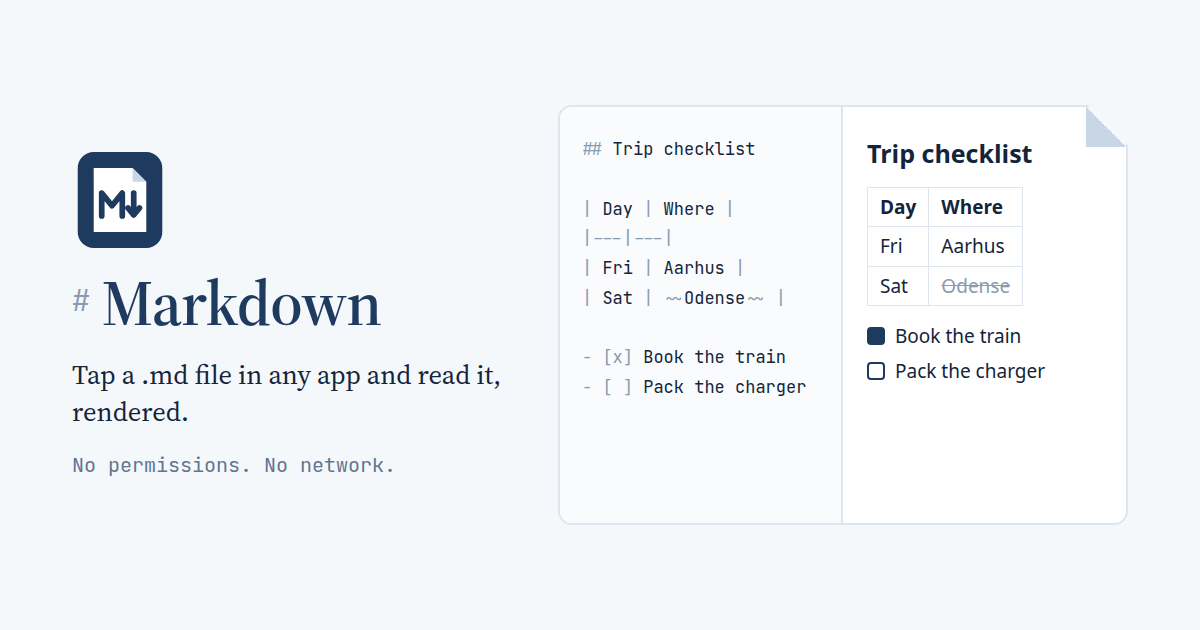
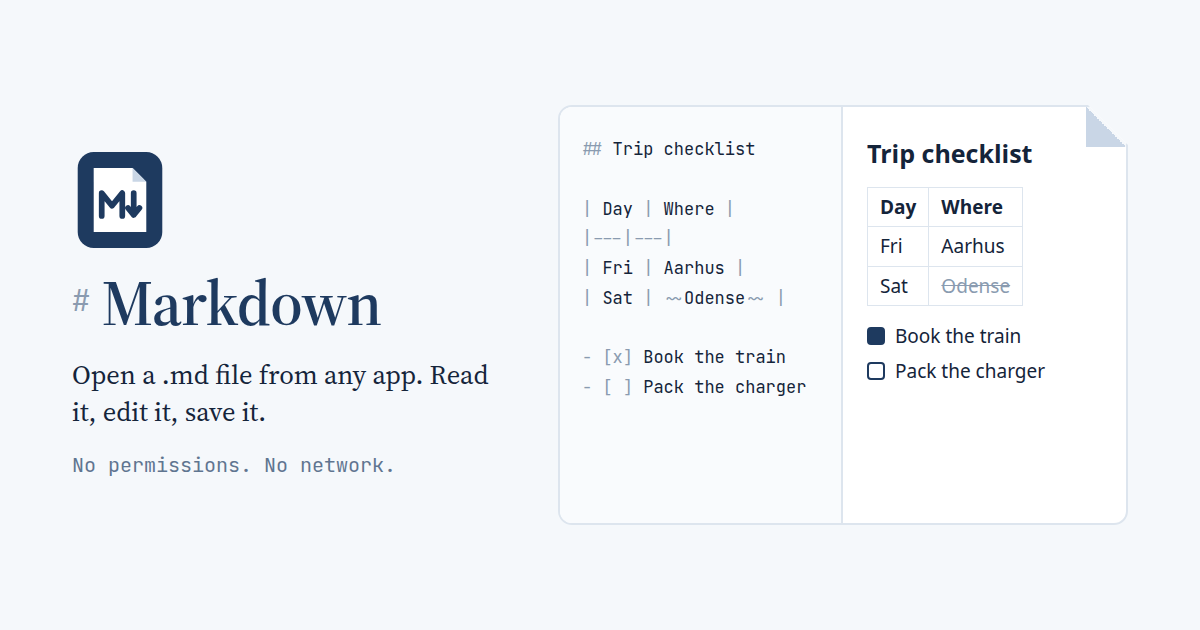
fix(website): follow the brand frame in dark mode, and describe editing (#14)
The frame now takes dark="auto", so it reads light on the dark page
instead of vanishing. Its accent follows the page's own palette
(frame-accent.js), and --cocode-max and --cocode-gutter line it up with
the page column. The lede and og.png now mention editing. The Persian
source panel drops ligatures and per-line direction, so the table rule
draws as |---|---| and lines up with the rest.

Claude-Session: https://claude.ai/code/session_019fSTsNv6mvnZFf1o5pYahC

Changed region(s): [[0.0617, 0.573, 0.4317, 0.6937]]

diff --git a/website/index.html b/website/index.html
@@ -24,7 +24,7 @@
 <meta property="og:locale:alternate" content="fa_IR">
 <meta name="twitter:card" content="summary_large_image">
 <meta name="twitter:title" content="Markdown — read and edit .md files on Android">
-<meta name="twitter:description" content="Tap a .md file in any app and read it, rendered. No permissions, no network.">
+<meta name="twitter:description" content="Tap a .md file in any app and read it, rendered, or edit it. No permissions, no network.">
 <meta name="twitter:image" content="https://markdown.cocode.dk/og.png">
 <meta name="twitter:image:alt" content="Markdown source beside the same text rendered.">
 <link rel="preconnect" href="https://fonts.googleapis.com">
@@ -33,6 +33,7 @@
 <link rel="stylesheet" href="styles.css">
 <link rel="stylesheet" href="https://brand.cocode.dk/v1.css">
 <script type="module" src="https://brand.cocode.dk/v1.js"></script>
+<script type="module" src="frame-accent.js"></script>
 <script type="application/ld+json">
 {
   "@context": "https://schema.org",
@@ -54,11 +55,11 @@
 </script>
 </head>
 <body>
-<cocode-head project="Markdown" accent="#1e3a5f" links="Download:#get,Source:https://github.com/cocodedk/markdown"><a href="https://cocode.dk">cocode.dk</a></cocode-head>
+<cocode-head dark="auto" project="Markdown" accent="#1e3a5f" links="Download:#get,Source:https://github.com/cocodedk/markdown"><a href="https://cocode.dk">cocode.dk</a></cocode-head>
 <main>
   <section>
     <h1 data-md="#">Markdown</h1>
-    <p class="lede">Someone sends you a <code>README.md</code>. Tap it, pick “Markdown”, and read it the way it was written to look.</p>
+    <p class="lede">Someone sends you a <code>README.md</code>. Tap it, pick “Markdown”, and read it the way it was written to look. Fix a line, format it, save it.</p>
     <a class="button" href="https://github.com/cocodedk/markdown/releases/latest/download/Markdown.apk">Download the APK</a>
     <span class="quiet">Android 8.0 or newer. Free, Apache-2.0.</span>
     <div class="pair" aria-label="The same note as Markdown source and as the Markdown app shows it">
@@ -112,6 +113,6 @@
     <p>Every release and its notes are on <a href="https://github.com/cocodedk/markdown/releases">GitHub</a>. The source is <a href="https://github.com/cocodedk/markdown">open</a>, and every test runs on a plain JVM.</p>
   </section>
 </main>
-<cocode-foot project="Markdown" repo="cocodedk/markdown"><a href="https://cocode.dk">Made by Babak Bandpey at Cocode</a></cocode-foot>
+<cocode-foot dark="auto" project="Markdown" repo="cocodedk/markdown"><a href="https://cocode.dk">Made by Babak Bandpey at Cocode</a></cocode-foot>
 </body>
 </html>

diff --git a/website/fa/index.html b/website/fa/index.html
@@ -33,6 +33,7 @@
 <link rel="stylesheet" href="../styles.css">
 <link rel="stylesheet" href="https://brand.cocode.dk/v1.css">
 <script type="module" src="https://brand.cocode.dk/v1.js"></script>
+<script type="module" src="../frame-accent.js"></script>
 <script type="application/ld+json">
 {
   "@context": "https://schema.org",
@@ -55,11 +56,11 @@
 </script>
 </head>
 <body>
-<cocode-head project="مارکداون" accent="#1e3a5f" lang="fa" links="دانلود:#get,کد منبع:https://github.com/cocodedk/markdown"><a href="https://cocode.dk">cocode.dk</a></cocode-head>
+<cocode-head dark="auto" project="مارکداون" accent="#1e3a5f" lang="fa" links="دانلود:#get,کد منبع:https://github.com/cocodedk/markdown"><a href="https://cocode.dk">cocode.dk</a></cocode-head>
 <main>
   <section>
     <h1 data-md="#">مارکداون</h1>
-    <p class="lede">کسی برایتان یک <code>README.md</code> فرستاده است. رویش بزنید، «Markdown» را انتخاب کنید و آن را همانطور که نوشته شده ببینید.</p>
+    <p class="lede">کسی برایتان یک <code>README.md</code> فرستاده است. رویش بزنید، «Markdown» را انتخاب کنید و آن را همانطور که نوشته شده ببینید. یک خط را درست کنید، قالببندیاش کنید و ذخیرهاش کنید.</p>
     <a class="button" href="https://github.com/cocodedk/markdown/releases/latest/download/Markdown.apk">دانلود APK</a>
     <span class="quiet">اندروید ۸ یا جدیدتر. رایگان، با مجوز Apache-2.0.</span>
     <div class="pair" aria-label="یک یادداشت، یک بار به شکل متن مارکداون و یک بار همانطور که برنامه نشانش میدهد">
@@ -113,6 +114,6 @@
     <p>همهٔ نسخهها و یادداشتهایشان در <a href="https://github.com/cocodedk/markdown/releases">گیتهاب</a> هستند. <a href="https://github.com/cocodedk/markdown">کد منبع</a> باز است و همهٔ آزمونها روی یک JVM ساده اجرا میشوند.</p>
   </section>
 </main>
-<cocode-foot project="مارکداون" repo="cocodedk/markdown" lang="fa"><a href="https://cocode.dk">ساختهٔ بابک بندپی در Cocode</a></cocode-foot>
+<cocode-foot dark="auto" project="مارکداون" repo="cocodedk/markdown" lang="fa"><a href="https://cocode.dk">ساختهٔ بابک بندپی در Cocode</a></cocode-foot>
 </body>
 </html>

diff --git a/website/styles.css b/website/styles.css
@@ -28,6 +28,8 @@
   }
 }
 * { box-sizing: border-box; }
+/* The brand frame lines up with the page's own column. */
+cocode-head, cocode-foot { --cocode-max: calc(42rem + var(--gutter)); --cocode-gutter: 1rem; }
 body {
   margin: 0;
   background: var(--paper);
@@ -79,7 +81,7 @@ blockquote::before { content: ">"; position: absolute; right: 100%; margin-right
 .pair::after { content: ""; position: absolute; top: 0; right: 0; width: 28px; height: 28px;
   background: linear-gradient(225deg, var(--paper) 50%, var(--fold) 50%); }
 .pair > div { padding: 1.2rem 1.3rem; min-width: 0; }
-.src { font: 0.82rem/1.7 var(--mono); color: var(--ink); white-space: pre-wrap;
+.src { font: 0.82rem/1.7 var(--mono); color: var(--ink); white-space: pre-wrap; font-variant-ligatures: none;
   border-right: 1px solid var(--rule); background: color-mix(in srgb, var(--sheet) 80%, var(--paper)); }
 .src i { font-style: normal; color: var(--mark); }
 .out { font: 0.95rem/1.5 system-ui, sans-serif; }
@@ -107,7 +109,7 @@ table.feat th { font-weight: 600; color: var(--navy); white-space: nowrap; }
 [dir="rtl"] [data-md]::before, [dir="rtl"] ul.md li::before, [dir="rtl"] blockquote::before {
   right: auto; left: 100%; margin-right: 0; margin-left: 0.9rem; direction: ltr; }
 [dir="rtl"] blockquote { padding: 0.2rem 1rem 0.2rem 0; border-left: 0; border-right: 3px solid var(--fold); }
-[dir="rtl"] .src { border-right: 0; border-left: 1px solid var(--rule); unicode-bidi: plaintext; }
+[dir="rtl"] .src { border-right: 0; border-left: 1px solid var(--rule); }
 [dir="rtl"] .button { margin: 0.4rem 0 0.4rem 1rem; }
 [dir="rtl"] .out input { margin: 0 0 0 0.4rem; }
 [dir="rtl"] table.feat th, [dir="rtl"] table.feat td { padding: 0.5rem 0 0.5rem 0.7rem; }

diff --git a/website/frame-accent.js b/website/frame-accent.js
@@ -1,0 +1,7 @@
+// The frame takes one fixed accent colour. The page has a light and a dark palette,
+// so hand the frame the navy that reads on each one.
+const scheme = matchMedia("(prefers-color-scheme: dark)");
+const paint = () => document.querySelectorAll("cocode-head, cocode-foot")
+  .forEach((el) => el.setAttribute("accent", scheme.matches ? "#9cc0e8" : "#1e3a5f"));
+scheme.addEventListener("change", paint);
+paint();

diff --git a/website/og-image.html b/website/og-image.html
@@ -45,7 +45,7 @@
   <div class="title">
     <img class="icon" src="favicon.svg" alt="">
     <h1><span>#</span>Markdown</h1>
-    <p>Tap a .md file in any app and read it, rendered.</p>
+    <p>Open a .md file from any app. Read it, edit it, save it.</p>
     <div class="note">No permissions. No network.</div>
   </div>
   <div class="pair">
